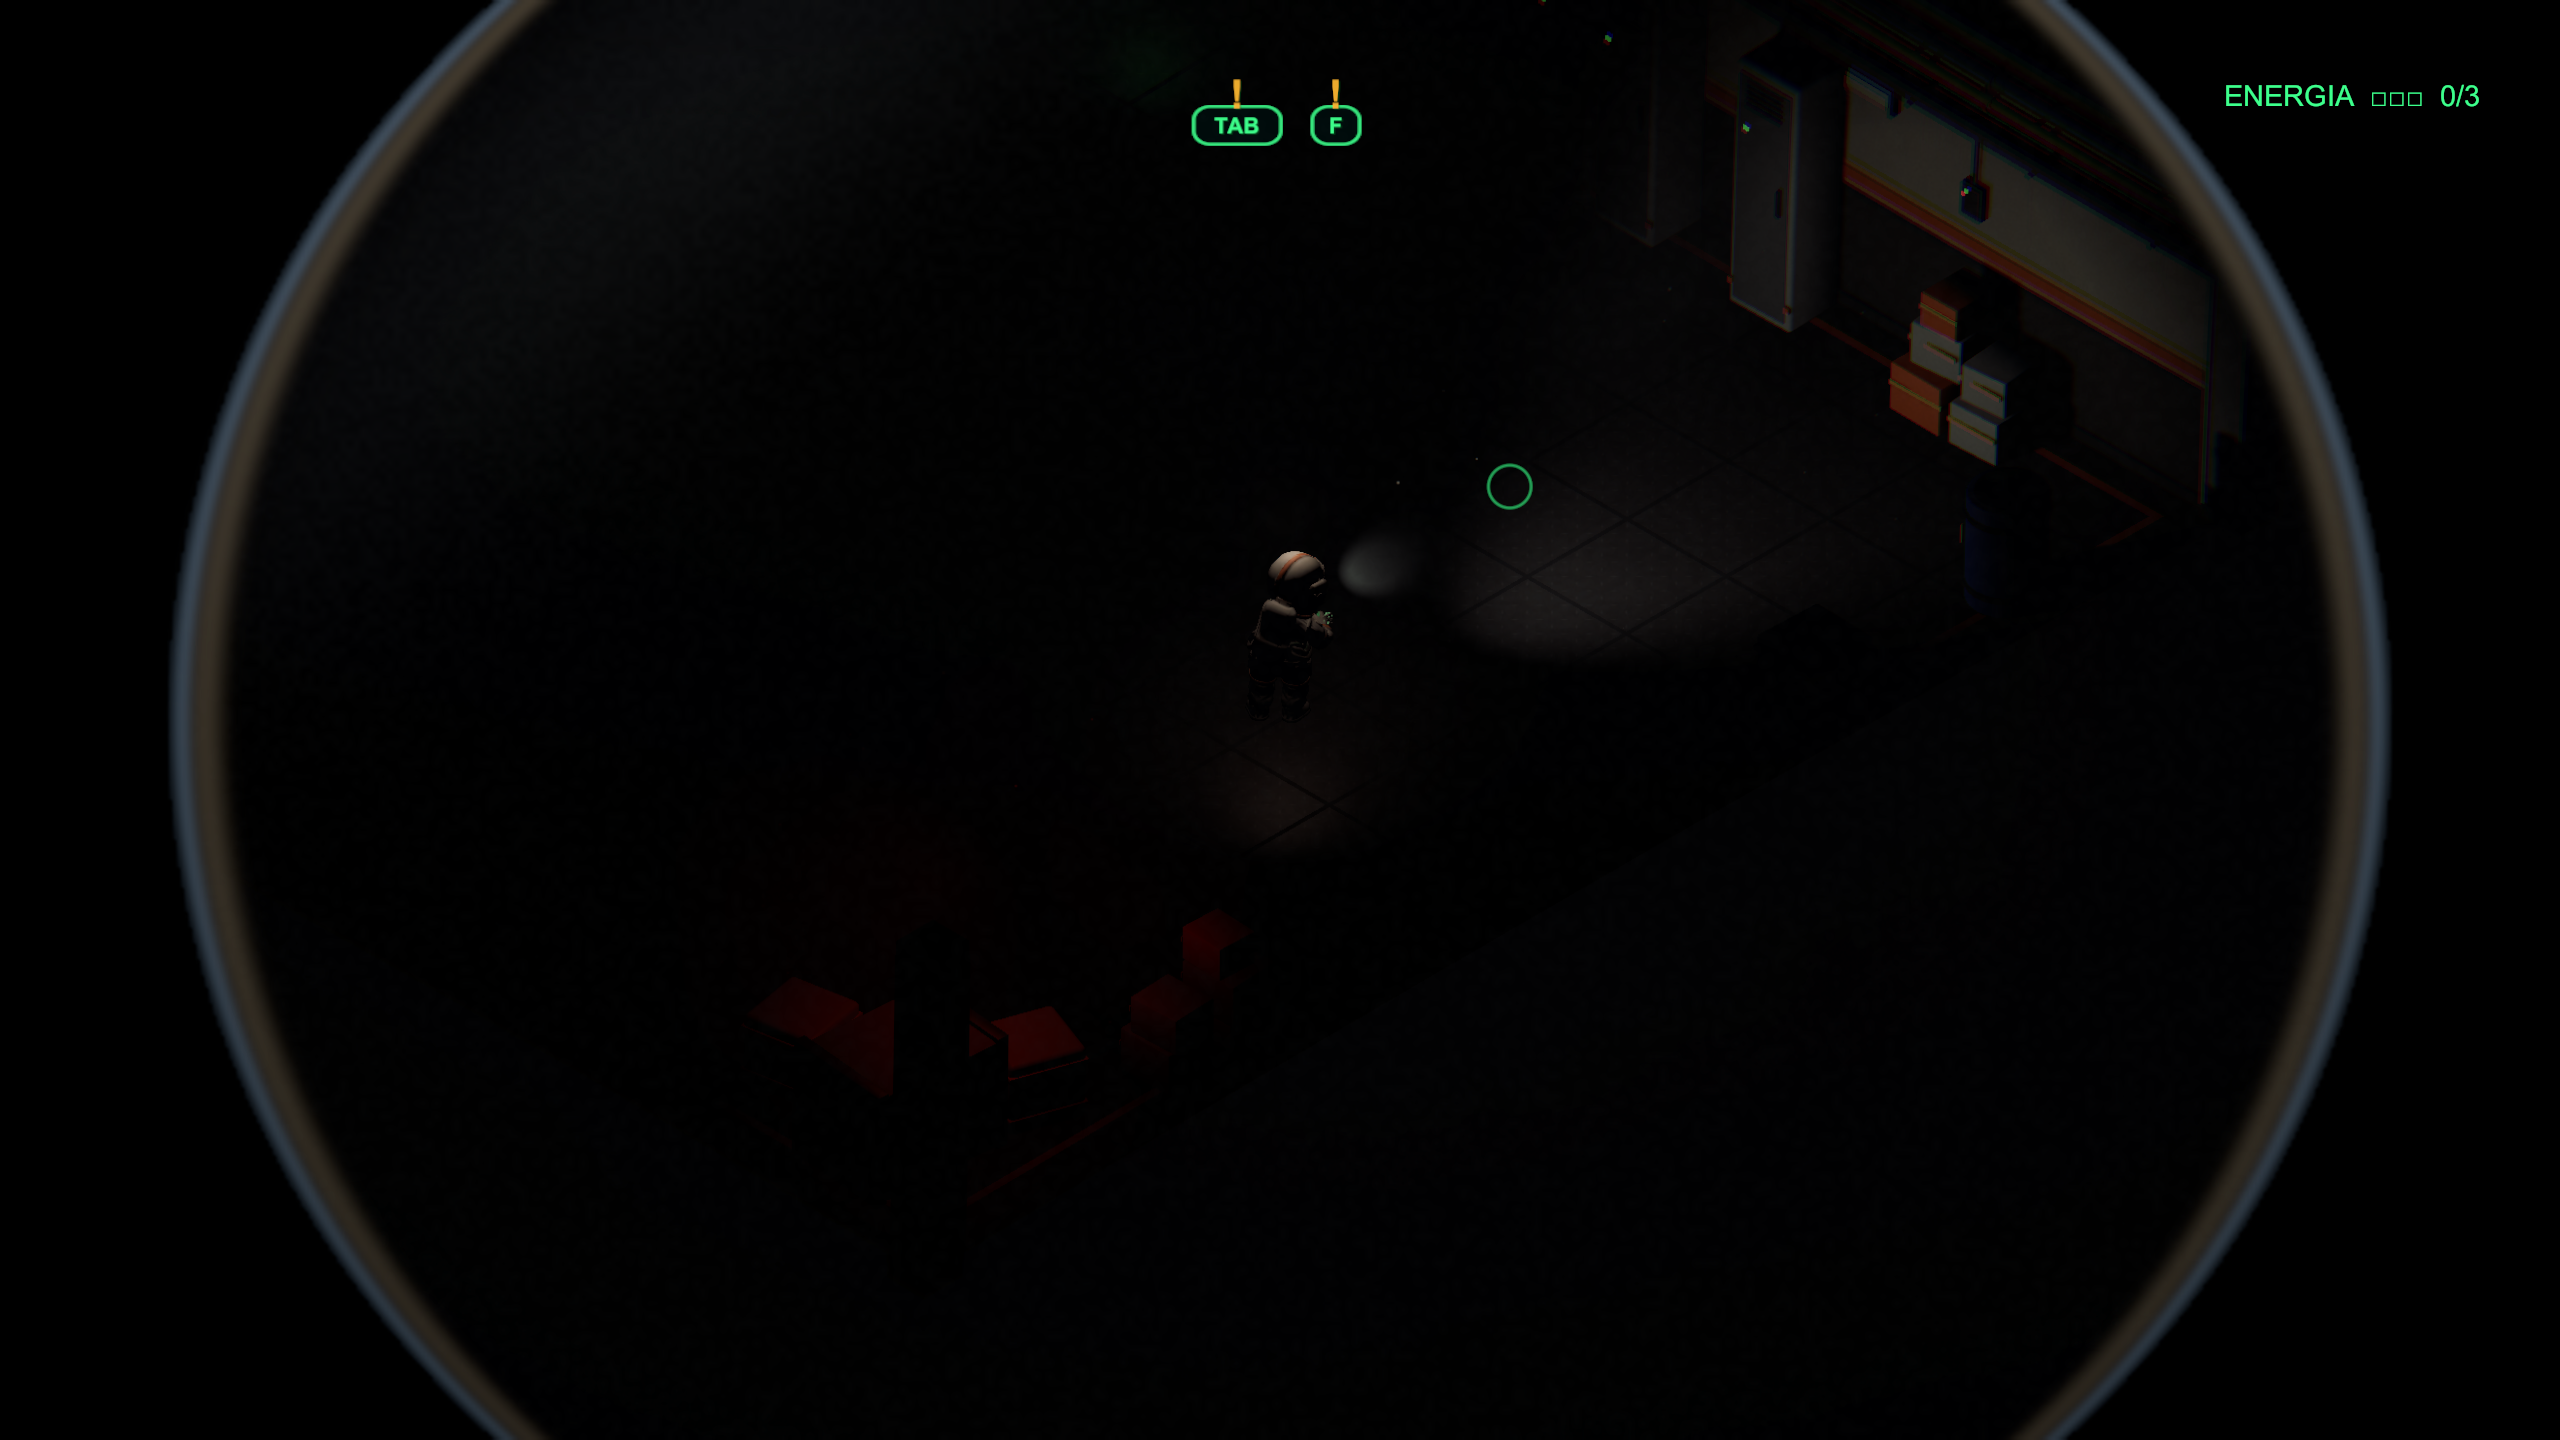
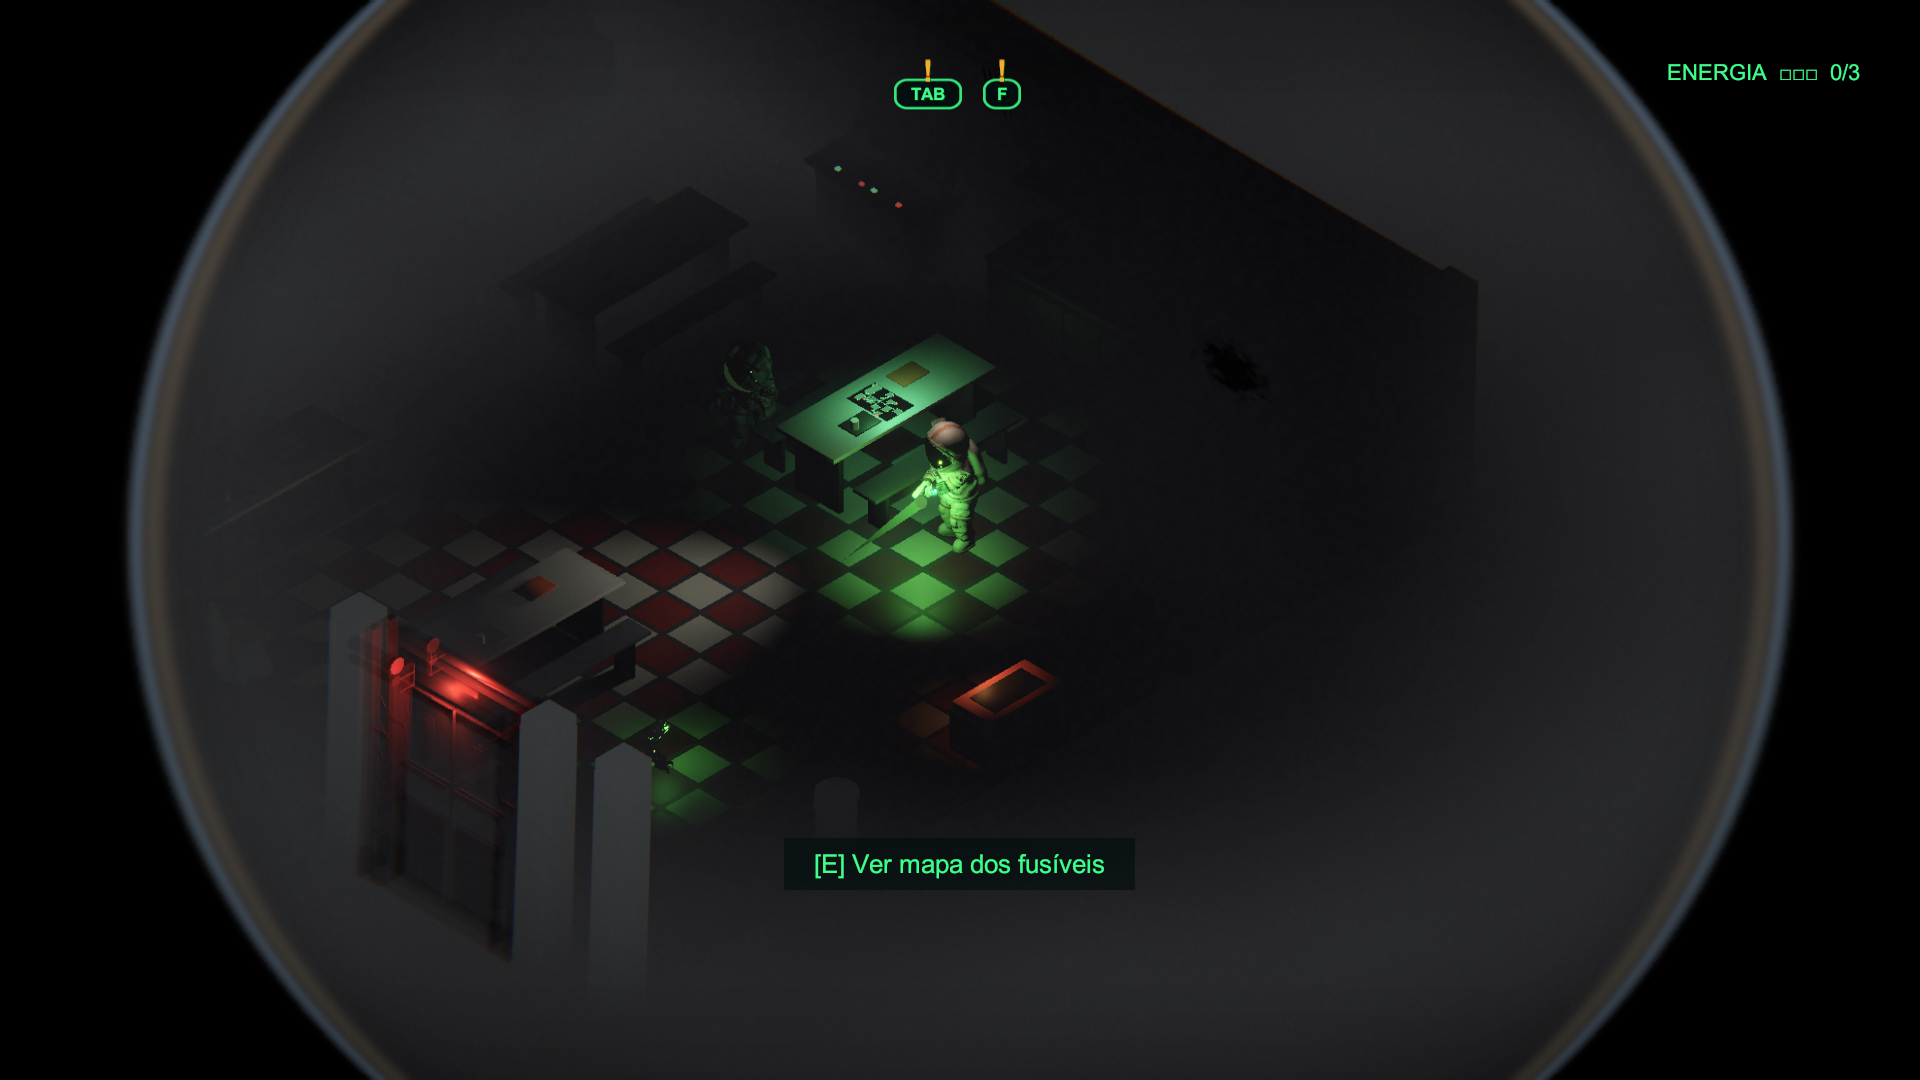
README e imagens da versão 0.2: névoa nova, mapa dos fusíveis, pause e recarga de O2

diff --git a/README.md b/README.md
@@ -6,6 +6,7 @@ O sinal da estação foi perdido há 72 horas. Você chega sozinho, de traje, co
 
 > ⚠ **Versão de teste (demo).** Contém a primeira fase. Feito em Unity 6 (URP).
 
+![Menu](imagens/menu.png)
 
 ---
 
@@ -43,7 +44,7 @@ O sinal da estação foi perdido há 72 horas. Você chega sozinho, de traje, co
 | Ver a arma e a munição | **F** |
 | Trocar de aba | **1 – 4** ou **← →** |
 | Escolher / usar | **↑ ↓** e **Enter** |
-| Sair do jogo | **Alt + F4** |
+| Pausar (continuar / sair do jogo) | **Esc** |
 
 ---
 
@@ -51,9 +52,10 @@ O sinal da estação foi perdido há 72 horas. Você chega sozinho, de traje, co
 
 - **Não há texto de missão na tela.** O que fazer fica nas **NOTAS** do computador de pulso — quando aparecer um **"!"** em cima do **TAB**, tem nota nova.
 - **O vidro do capacete é a sua tela:** correndo demais você fica sem fôlego, a respiração embaça o visor e a visão borra. Golpes de frente arranham o vidro.
-- **Oxigênio acaba com o tempo.** Recarregue nas máquinas de **O2** das paredes (marcadas no mapa).
+- **Oxigênio acaba com o tempo.** Recarregue nas máquinas de **O2** das paredes. Cada máquina guarda pouco oxigênio, mas volta a encher **aos poucos** com o tempo.
+- **Não sabe onde estão os fusíveis?** Procure o mapa brilhando numa das mesas do **refeitório** e aperte **E** para anotar.
 - No braço cabem só **6 itens**. Na tela cheia (**Q**) você vê a mochila inteira e escolhe quais 6 ficam no braço.
-- A estação está escura. A lanterna é sua melhor amiga — e a névoa esconde coisas.
+- A estação está escura e tomada por névoa: você só enxerga bem o que está perto. A lanterna é sua melhor amiga.
 
 ---
 
@@ -61,8 +63,9 @@ O sinal da estação foi perdido há 72 horas. Você chega sozinho, de traje, co
 
 | | |
 |---|---|
-| ![Jogo](imagens/jogo.png) | ![Computador de pulso](imagens/pulso.png) |
-| ![Inventário](imagens/inventario.png) | ![Mapa](imagens/mapa.png) |
+| ![Refeitório com o mapa dos fusíveis](imagens/jogo.png) | ![Computador de pulso](imagens/pulso.png) |
+| ![Inventário](imagens/inventario.png) | ![Mapa da estação](imagens/mapa.png) |
+| ![Pause](imagens/pausa.png) | |
 
 ---
 
